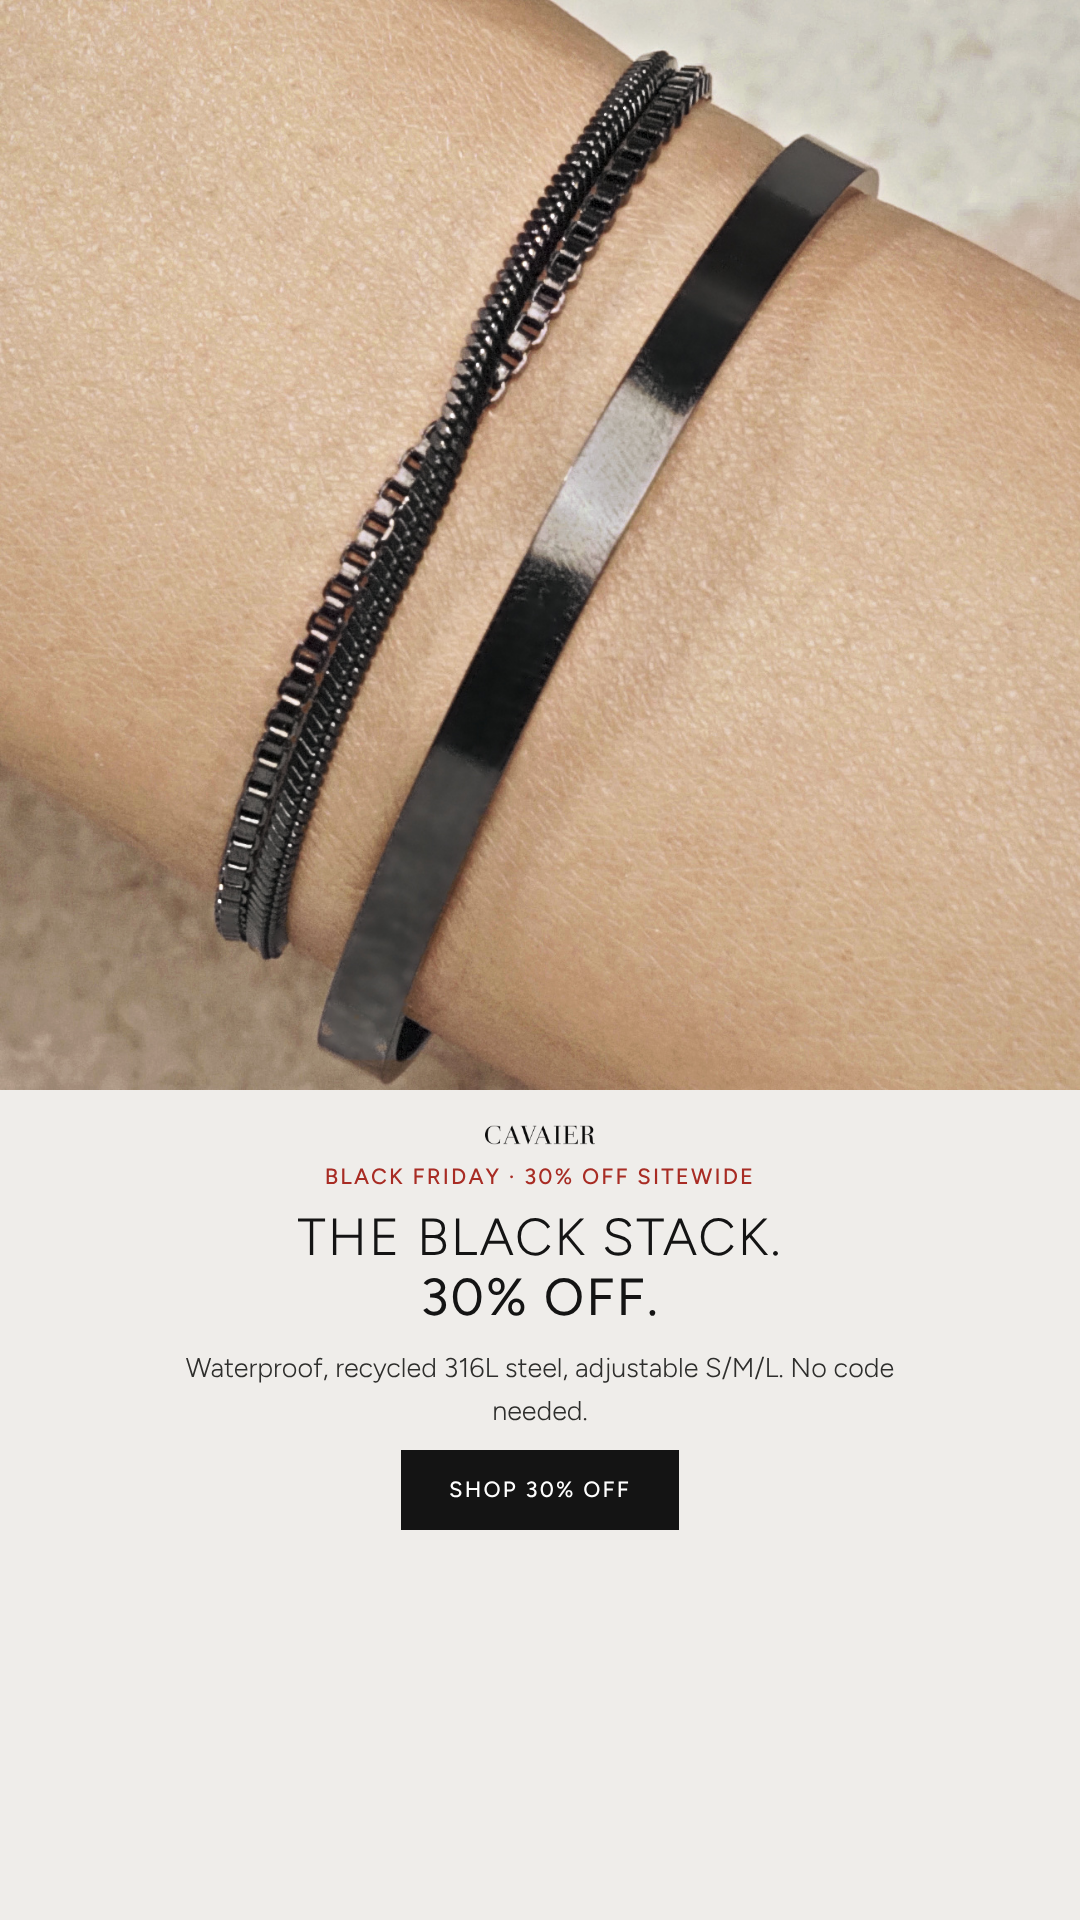
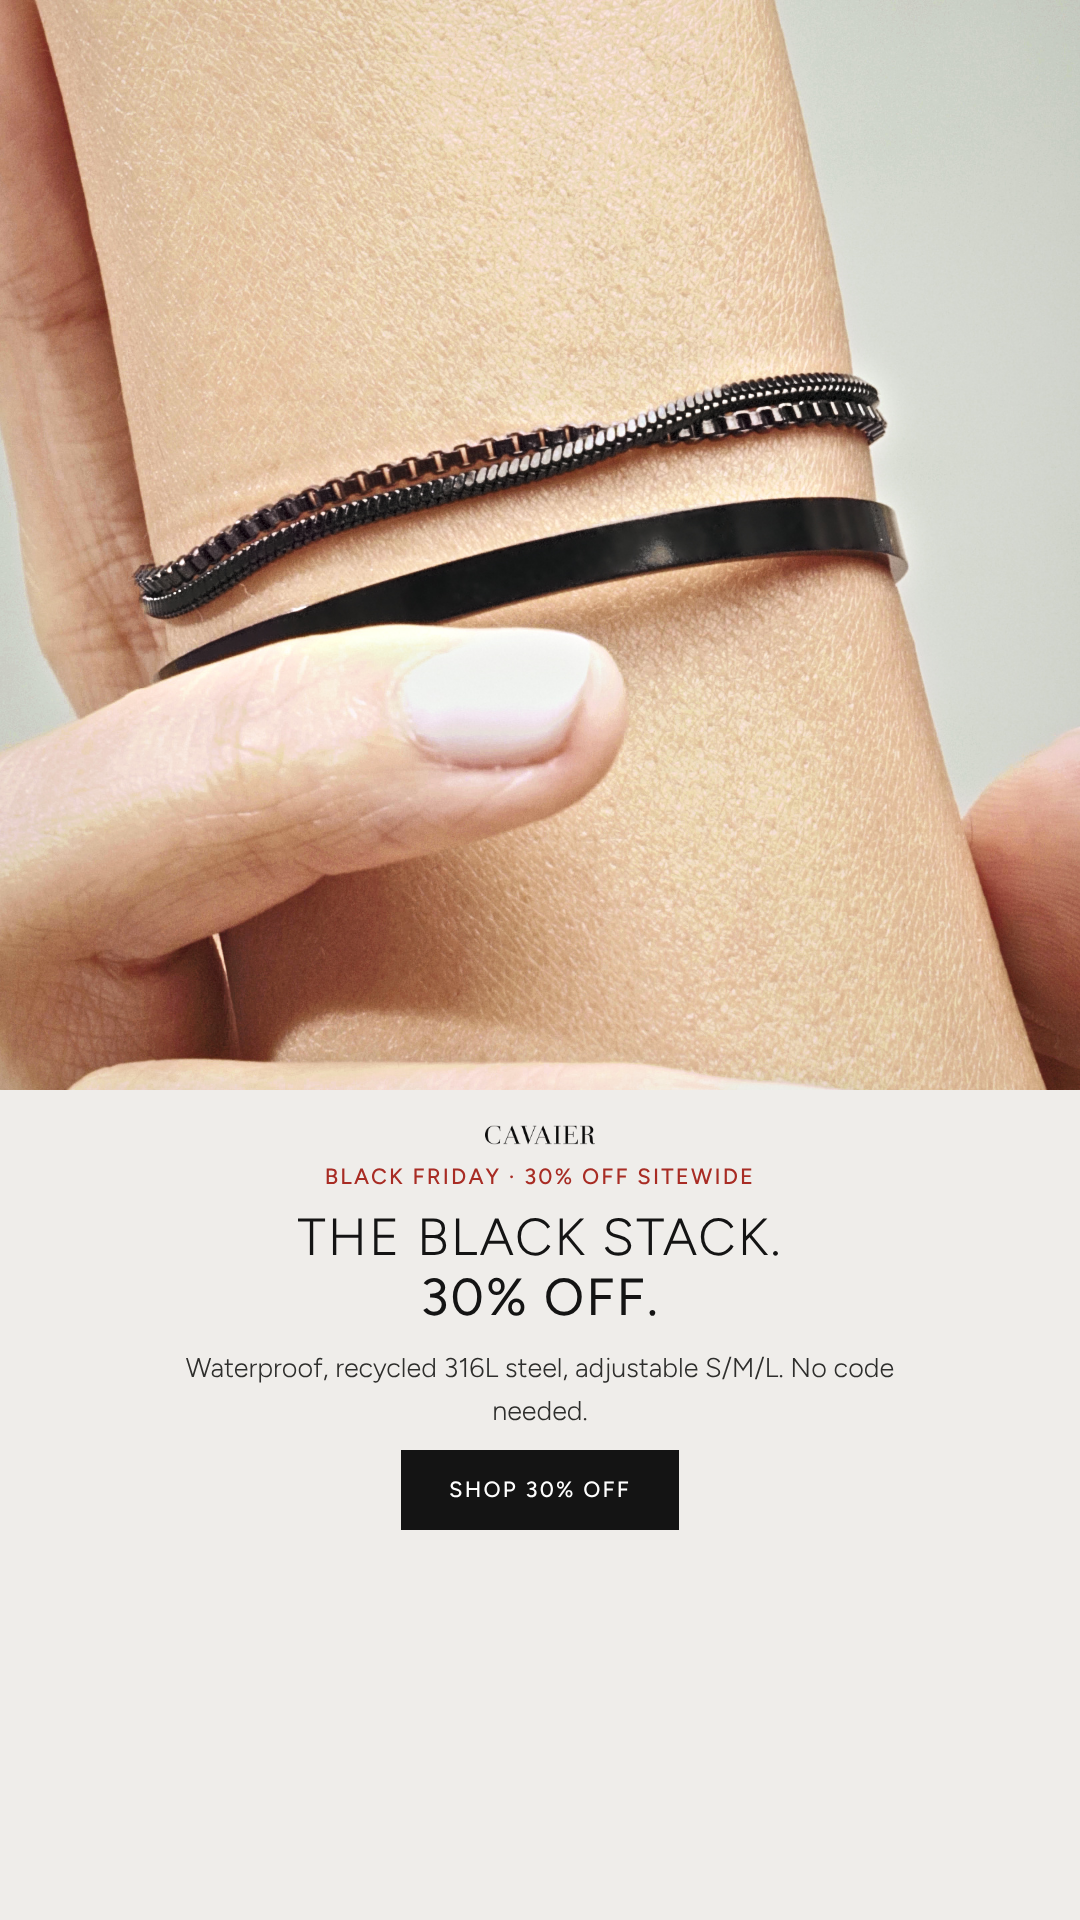
W421 full redo: new frames (C2387/C2352/C2375) from 4K originals, natural warm skin, varied crops; stillrun.sh pipeline
Claude-Session: https://claude.ai/code/session_01LtGMNmy7hV4kZNsS3Vsb6Q

diff --git a/bfcm26/canvas/W421-C3.dc.html b/bfcm26/canvas/W421-C3.dc.html
@@ -15,12 +15,12 @@ a{color:#141414}a:hover{color:#000000}
 </style>
 </helmet>
 <div style="width: 1080px; height: 1920px; position: relative; overflow: hidden; background: #E8E2DA; font-family: Figtree, sans-serif; color: #141414">
-<div data-tag="status" style="position: absolute; top: 28px; left: 28px; z-index: 50; display: flex; flex-direction: column; align-items: flex-start; gap: 10px; pointer-events: none"><span style="padding: 12px 20px; background: #8FCBA2; color: #141414; font-family: Figtree, sans-serif; font-size: 28px; font-weight: 600; letter-spacing: 0.1em">CLICKUP ✓ DONE</span><span style="padding: 12px 20px; background: #F4D58A; color: #141414; font-family: Figtree, sans-serif; font-size: 28px; font-weight: 600; letter-spacing: 0.1em">4K MACRO CROP · NATURAL SKIN · FRAME PENDING</span></div>
+<div data-tag="status" style="position: absolute; top: 28px; left: 28px; z-index: 50; display: flex; flex-direction: column; align-items: flex-start; gap: 10px; pointer-events: none"><span style="padding: 12px 20px; background: #8FCBA2; color: #141414; font-family: Figtree, sans-serif; font-size: 28px; font-weight: 600; letter-spacing: 0.1em">CLICKUP ✓ DONE</span><span style="padding: 12px 20px; background: #F4D58A; color: #141414; font-family: Figtree, sans-serif; font-size: 28px; font-weight: 600; letter-spacing: 0.1em">REDONE · FRAME PENDING</span></div>
 
 
-<img src="/_blob/6f8ab6597003da44d5dd1b5631ddc768" alt="Fingers resting on a sun-kissed wrist wearing the black 3x Minimal - Stack Set" style="position: absolute; top: 0; left: 0; width: 1080px; height: 1920px; object-fit: cover; display: block">
+<img src="/_blob/02f764019de8e5a0a88682c0ac8f058e" alt="A fingertip touching a wrist with the black 3x Minimal - Stack Set, white bouclé below" style="position: absolute; top: 0; left: 0; width: 1080px; height: 1920px; object-fit: cover; display: block">
 <div style="position: absolute; top: 1260px; left: 80px; width: 920px; display: flex; flex-direction: column; align-items: flex-start; gap: 18px; text-align: left">
-<span style="font-size: 22px; font-weight: 500; letter-spacing: 0.1em; color: #A82C24">BLACK FRIDAY · 30% OFF SITEWIDE</span>
+<span style="font-size: 24px; font-weight: 500; letter-spacing: 0.1em; color: #A82C24">BLACK FRIDAY · 30% OFF SITEWIDE</span>
 <h1 style="margin: 0; font-size: 52px; line-height: 1.15; letter-spacing: 0.04em; font-weight: 300; text-transform: uppercase">No code needed.<br><span style="font-weight: 400">Just 30% off.</span></h1>
 <a href="https://cavaier.com/products/3x-minimal-stack-set-for-her" style="display: inline-flex; align-items: center; justify-content: center; height: 80px; padding: 0 48px; background: #141414; color: #FFFFFF; text-decoration: none; font-size: 22px; font-weight: 500; letter-spacing: 0.1em">SHOP 30% OFF</a>
 </div>

diff --git a/bfcm26/canvas/W421-C2.dc.html b/bfcm26/canvas/W421-C2.dc.html
@@ -15,10 +15,10 @@ a{color:#141414}a:hover{color:#000000}
 </style>
 </helmet>
 <div style="width: 1080px; height: 1920px; position: relative; overflow: hidden; background: #E9E6E1; font-family: Figtree, sans-serif; color: #141414">
-<div data-tag="status" style="position: absolute; top: 28px; left: 28px; z-index: 50; display: flex; flex-direction: column; align-items: flex-start; gap: 10px; pointer-events: none"><span style="padding: 12px 20px; background: #8FCBA2; color: #141414; font-family: Figtree, sans-serif; font-size: 28px; font-weight: 600; letter-spacing: 0.1em">CLICKUP ✓ DONE</span><span style="padding: 12px 20px; background: #F4D58A; color: #141414; font-family: Figtree, sans-serif; font-size: 28px; font-weight: 600; letter-spacing: 0.1em">4K MACRO CROP · NATURAL SKIN · FRAME PENDING</span></div>
+<div data-tag="status" style="position: absolute; top: 28px; left: 28px; z-index: 50; display: flex; flex-direction: column; align-items: flex-start; gap: 10px; pointer-events: none"><span style="padding: 12px 20px; background: #8FCBA2; color: #141414; font-family: Figtree, sans-serif; font-size: 28px; font-weight: 600; letter-spacing: 0.1em">CLICKUP ✓ DONE</span><span style="padding: 12px 20px; background: #F4D58A; color: #141414; font-family: Figtree, sans-serif; font-size: 28px; font-weight: 600; letter-spacing: 0.1em">REDONE · FRAME PENDING</span></div>
 
 
-<img src="/_blob/b258f92bd82204b0ff9d2776a7f35d9d" alt="Profile of a woman with her arm across her face, wearing the black 3x Minimal - Stack Set" style="position: absolute; top: 0; left: 0; width: 1080px; height: 1920px; object-fit: cover; display: block">
+<img src="/_blob/1d7888b8a93f21b695f5fd35db3f6f6d" alt="Woman resting her face behind her arm, wearing the black 3x Minimal - Stack Set" style="position: absolute; top: 0; left: 0; width: 1080px; height: 1920px; object-fit: cover; display: block">
 <div style="position: absolute; top: 1260px; left: 80px; width: 920px; display: flex; flex-direction: column; align-items: flex-start; gap: 18px; text-align: left">
 <span style="font-size: 22px; font-weight: 500; letter-spacing: 0.1em; color: #A82C24">BLACK FRIDAY · 30% OFF SITEWIDE</span>
 <h1 style="margin: 0; font-size: 52px; line-height: 1.15; letter-spacing: 0.04em; font-weight: 300; text-transform: uppercase">Made to<br><span style="font-weight: 400">stay on.</span></h1>

diff --git a/bfcm26/canvas/W421-C1.dc.html b/bfcm26/canvas/W421-C1.dc.html
@@ -15,10 +15,10 @@ a{color:#141414}a:hover{color:#000000}
 </style>
 </helmet>
 <div style="width: 1080px; height: 1920px; position: relative; overflow: hidden; background: #EFEDEA; font-family: Figtree, sans-serif; color: #141414">
-<div data-tag="status" style="position: absolute; top: 28px; left: 28px; z-index: 50; display: flex; flex-direction: column; align-items: flex-start; gap: 10px; pointer-events: none"><span style="padding: 12px 20px; background: #8FCBA2; color: #141414; font-family: Figtree, sans-serif; font-size: 28px; font-weight: 600; letter-spacing: 0.1em">CLICKUP ✓ DONE</span><span style="padding: 12px 20px; background: #F4D58A; color: #141414; font-family: Figtree, sans-serif; font-size: 28px; font-weight: 600; letter-spacing: 0.1em">4K MACRO CROP · NATURAL SKIN · FRAME PENDING</span></div>
+<div data-tag="status" style="position: absolute; top: 28px; left: 28px; z-index: 50; display: flex; flex-direction: column; align-items: flex-start; gap: 10px; pointer-events: none"><span style="padding: 12px 20px; background: #8FCBA2; color: #141414; font-family: Figtree, sans-serif; font-size: 28px; font-weight: 600; letter-spacing: 0.1em">CLICKUP ✓ DONE</span><span style="padding: 12px 20px; background: #F4D58A; color: #141414; font-family: Figtree, sans-serif; font-size: 28px; font-weight: 600; letter-spacing: 0.1em">REDONE · FRAME PENDING</span></div>
 
 
-<img src="/_blob/971f8702602806211623b7d48ef24af6" alt="Fingertips touching the black 3x Minimal - Stack Set on a sun-kissed wrist, white bouclé behind" style="position: absolute; top: 0; left: 0; width: 1080px; height: 1090px; object-fit: cover; object-position: 50% 50%; display: block">
+<img src="/_blob/9c43e9e4be47e6321859b4798b280ad1" alt="Fingers wrapped around a sun-kissed wrist wearing the black 3x Minimal - Stack Set" style="position: absolute; top: 0; left: 0; width: 1080px; height: 1090px; object-fit: cover; object-position: 50% 50%; display: block">
 <div style="position: absolute; top: 1125px; left: 0; width: 1080px; display: flex; flex-direction: column; align-items: center; gap: 18px; text-align: center">
 <img src="/_blob/b5d78a878b48e10609c923597dd1852e" alt="Cavaier" style="width: 110px; height: auto; display: block">
 <span style="font-size: 22px; font-weight: 500; letter-spacing: 0.1em; color: #A82C24">BLACK FRIDAY · 30% OFF SITEWIDE</span>
